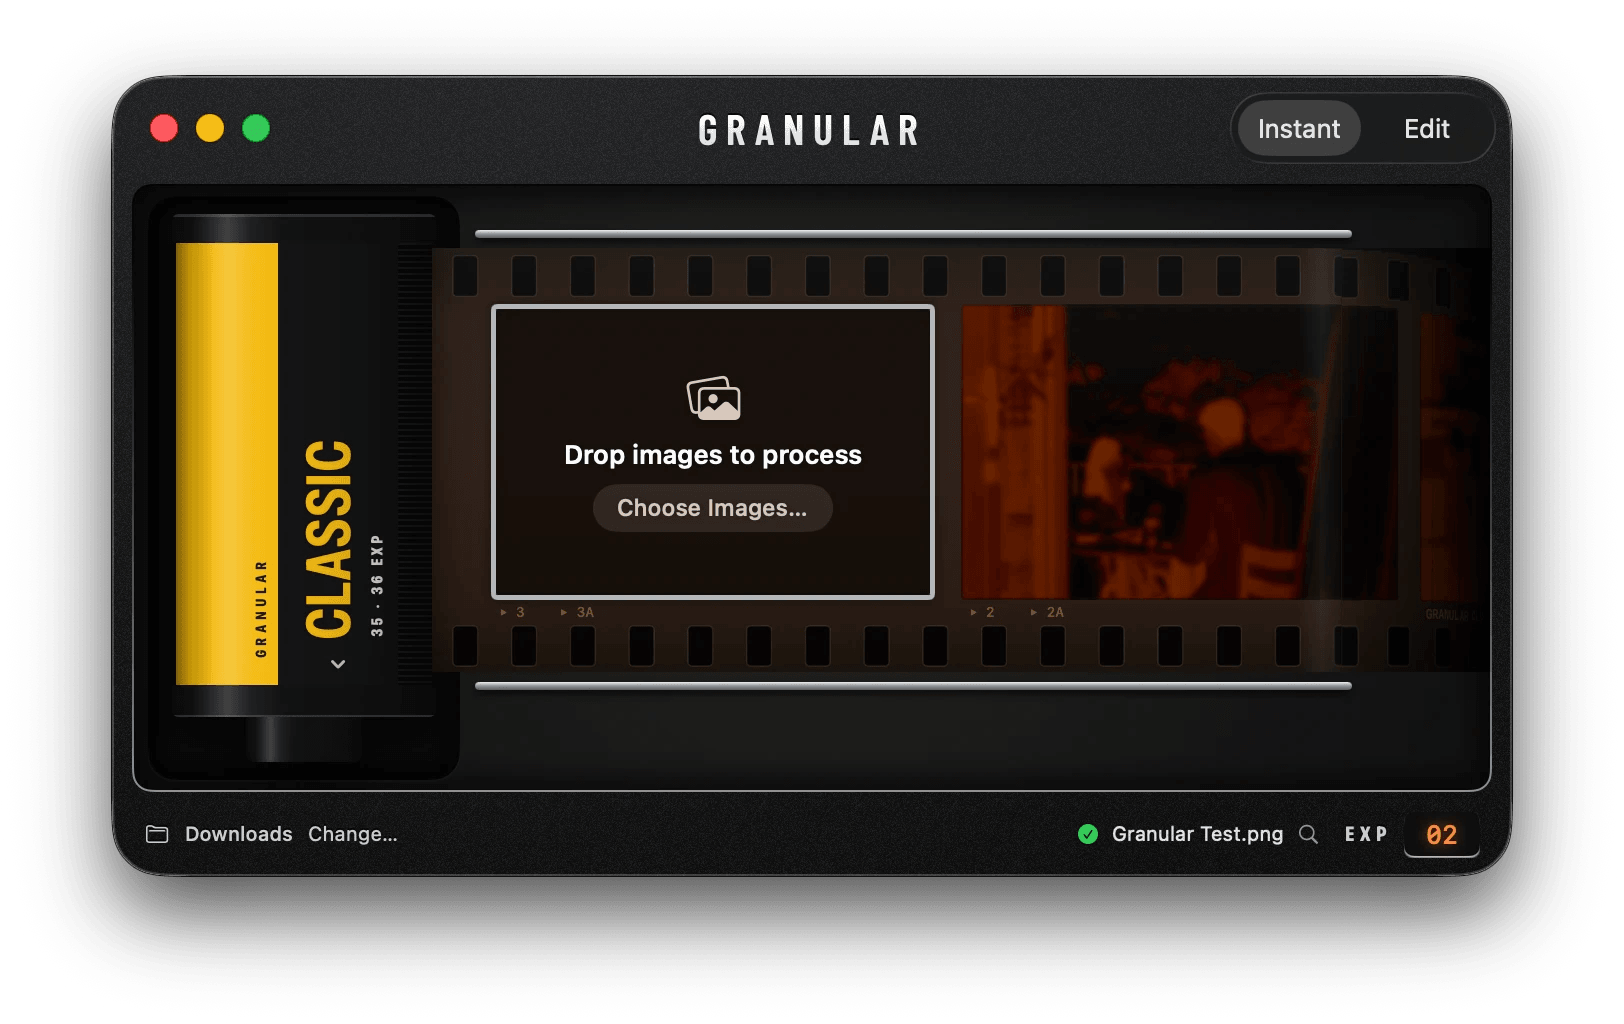
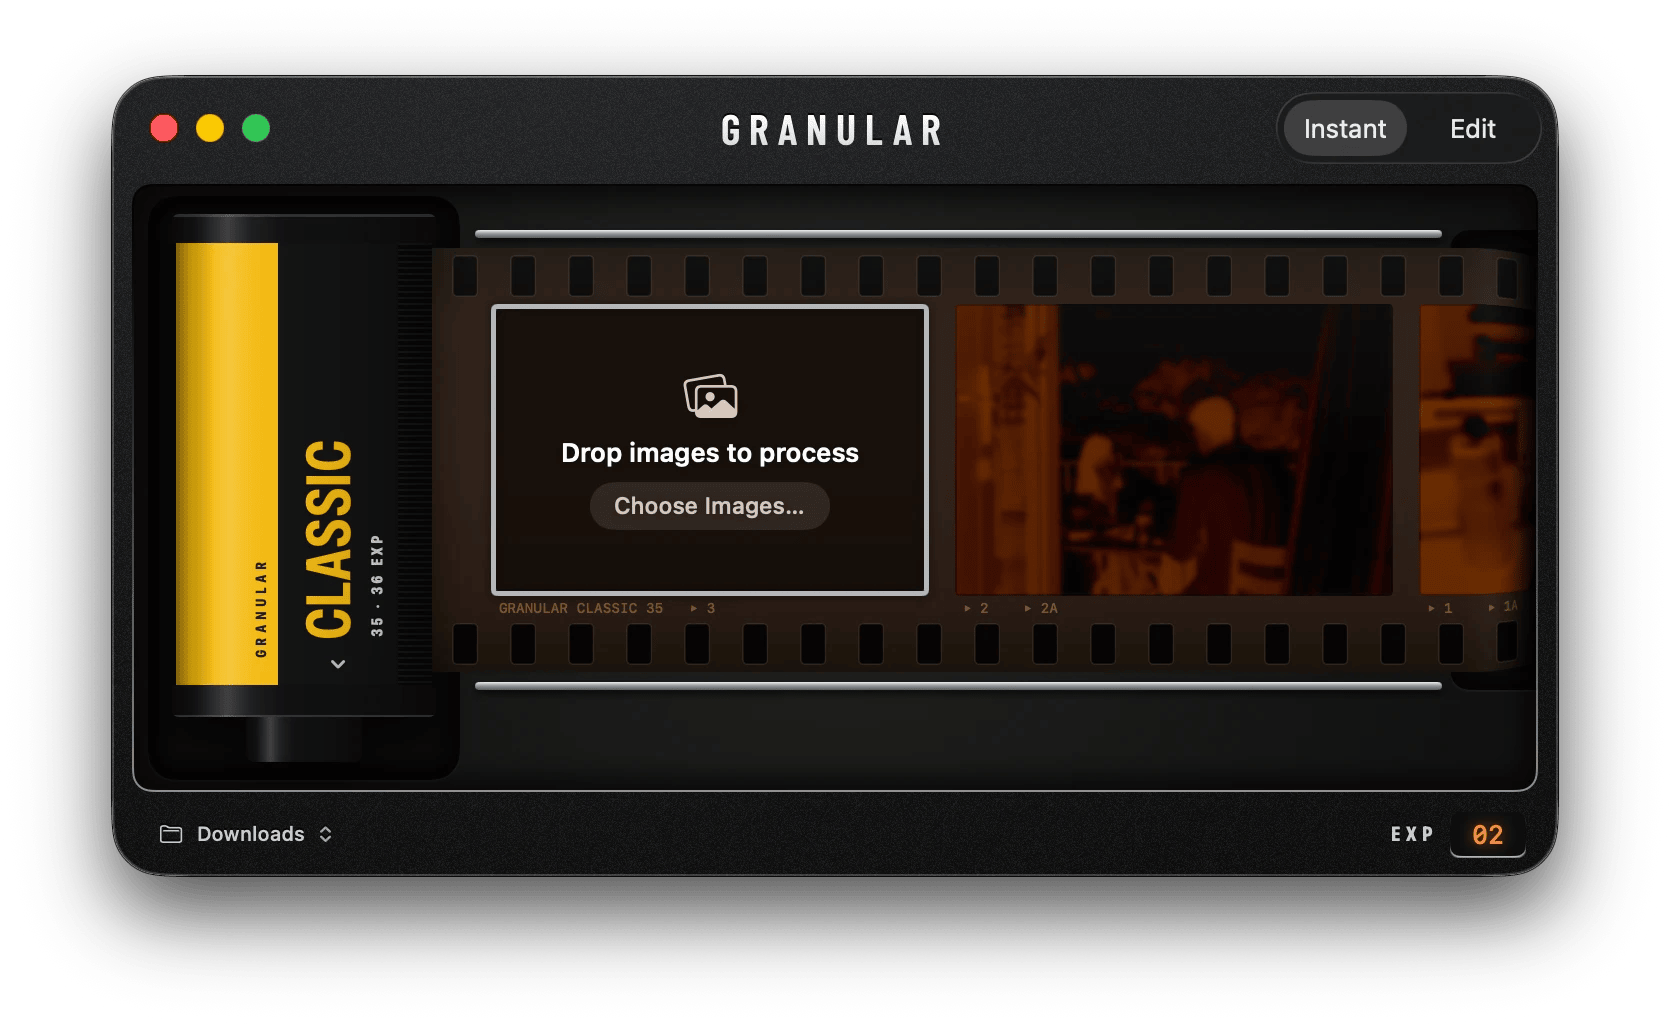
Refresh the README and site screenshots

diff --git a/Website/app/page.tsx b/Website/app/page.tsx
@@ -37,10 +37,10 @@ export default function Home() {
         <div className="workbench-words"><span>Drop photos in</span><em>for instant results,</em><span>or edit live.</span></div>
         <div className="workbench-views">
           <figure className="app-frame edit-frame" data-parallax="-18">
-            <img src={asset("/granular-edit.webp?v=3")} alt="Granular Edit mode with live preview and adjustment panels" />
+            <img src={asset("/granular-edit.webp?v=4")} alt="Granular Edit mode with live preview and adjustment panels" />
           </figure>
           <figure className="app-frame instant-frame" data-parallax="14">
-            <img src={asset("/granular-instant.webp?v=3")} alt="Granular Instant mode: a film canister and a strip of frames to drop images onto" />
+            <img src={asset("/granular-instant.webp?v=4")} alt="Granular Instant mode: a film canister and a strip of frames to drop images onto" />
           </figure>
         </div>
       </section>
